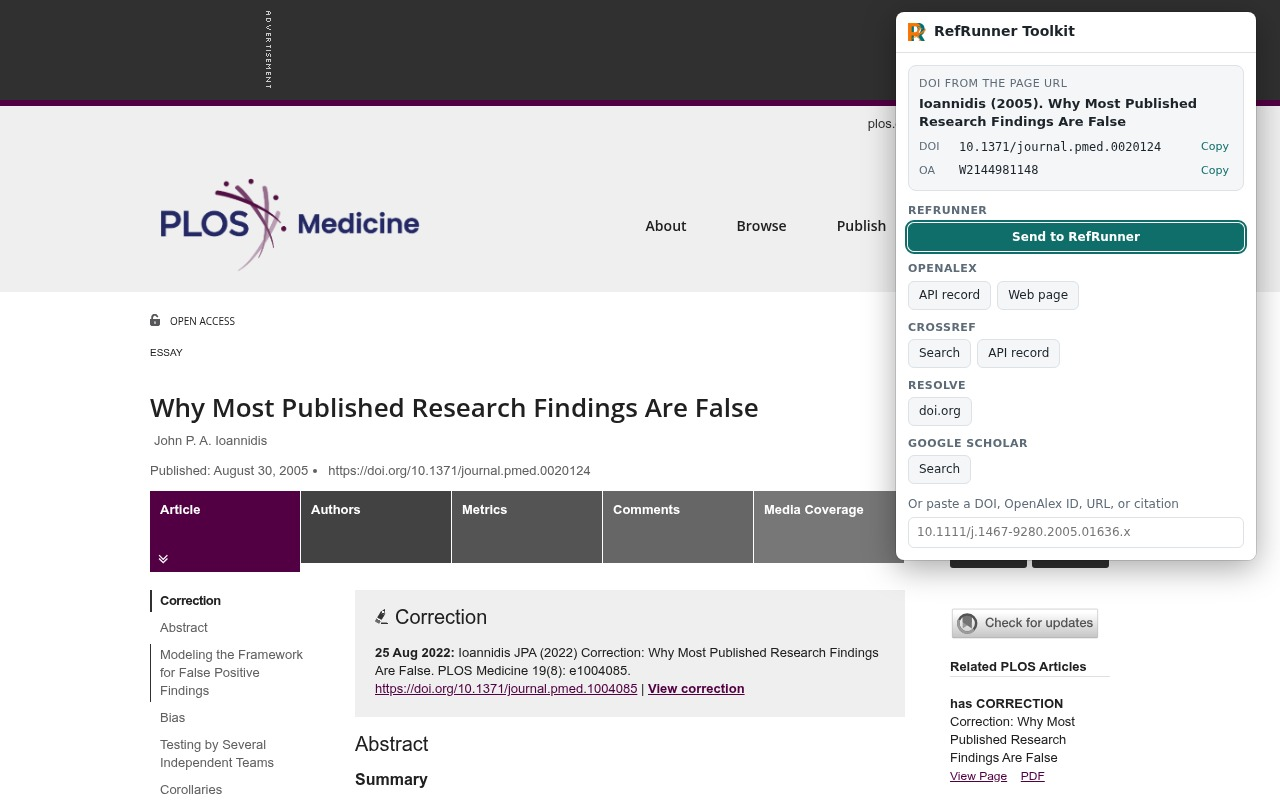
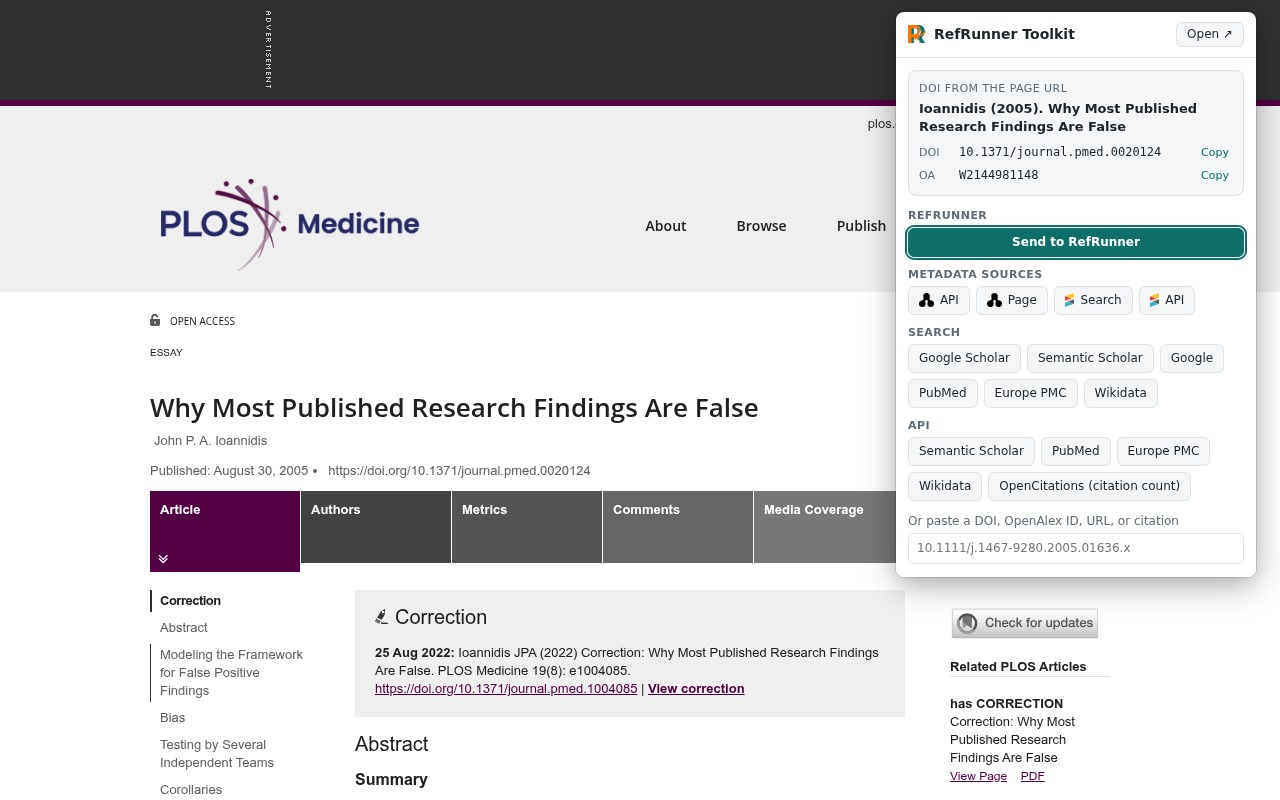
Store kit: screenshots and listing for the new popup layout
Claude-Session: https://claude.ai/code/session_0155qoeaNSUzENmLbfm4XGmY

Changed region(s): [[0.6875, 0.0312, 1.0, 0.75]]

diff --git a/store/LISTING.md b/store/LISTING.md
@@ -24,14 +24,15 @@ CHECK REFERENCES
 • Select one citation or a whole reference list, then press Alt+Shift+C (or click the toolbar button and press Enter). RefRunner checks every entry against the scholarly record, flags what's wrong or can't be found, and formats the corrected list.
 • Right-click a selection → RefRunner Toolkit → Send to RefRunner does the same.
 • Line breaks are kept, so a pasted list stays one reference per line.
-• If RefRunner is already open in a tab, the references go there instead of a new tab.
+• If RefRunner is already open in a tab, the references are added to its list; otherwise a new tab opens.
 
 JUMP FROM ANY ARTICLE
 • Finds the DOI from the page address or the publisher's metadata tags (works on most journal sites, including ones whose URLs don't show the DOI), and arXiv IDs.
-• Shows the work as "Author (year). Title", with its DOI and OpenAlex ID ready to copy.
-• One click to the OpenAlex record and page, the Crossref or DataCite record (whichever registered the DOI, so arXiv preprints and datasets go to DataCite), doi.org, Google Scholar, and RefRunner.
+• Shows the work as "Author (year). Title", with its DOI and OpenAlex ID ready to copy and an Open button for doi.org.
+• Metadata sources: the OpenAlex record and page, and the Crossref or DataCite record (whichever registered the DOI, so arXiv preprints and datasets go to DataCite).
+• Search the DOI or citation in Google Scholar, Semantic Scholar, Google, PubMed, Europe PMC, Wikidata, JSTOR, ERIC, the Library of Congress, Open Library, Google Books, and ResearchGate, with the matching API records one click away.
 • Alt+Shift+O opens the OpenAlex API record for the page you're on.
-• Paste a DOI, OpenAlex ID, URL, or citation into the popup to look it up.
+• Paste a DOI, OpenAlex ID, URL, or citation into the popup to look it up, or press Enter to send it to RefRunner.
 
 PRIVATE BY DESIGN
 • Reads a page only when you click the button, use the right-click menu, or press a shortcut.
@@ -42,8 +43,8 @@ Shortcuts can be changed at chrome://extensions/shortcuts (there's a link at the
 ```
 
 **Screenshots** (1280×800):
-1. `screenshot-1-article.jpg`: an article page; DOI from the URL, author (year) and title, every destination.
-2. `screenshot-2-references.jpg`: a selected reference list; "Check this text in RefRunner" ready for Enter.
+1. `screenshot-1-article.jpg`: an article page; DOI from the URL, author (year) and title, metadata sources, searches and APIs.
+2. `screenshot-2-references.jpg`: a selected reference list; "Add to RefRunner References" ready for Enter.
 3. `screenshot-3-arxiv.jpg`: an arXiv preprint; DataCite links instead of Crossref.
 
 **Small promo tile** (440×280): `promo-440x280.jpg`
@@ -56,7 +57,7 @@ Shortcuts can be changed at chrome://extensions/shortcuts (there's a link at the
 **Single purpose:**
 
 ```
-Help researchers check and look up scholarly references: send selected citations to RefRunner for verification, and open a work's records (OpenAlex, Crossref/DataCite, doi.org, Google Scholar) from its DOI or OpenAlex ID.
+Help researchers check and look up scholarly references: send selected citations to RefRunner for verification, and open a work's records and searches (OpenAlex, Crossref/DataCite, doi.org, Google Scholar and other scholarly indexes) from its DOI, OpenAlex ID, or citation.
 ```
 
 **Permission justifications:**
@@ -65,7 +66,7 @@ Help researchers check and look up scholarly references: send selected citations
 |---|---|
 | activeTab | Lets the extension read the current page only after the user clicks the toolbar button, uses the right-click menu, or presses a shortcut. Used to find the page's DOI and the user's selected text. No access to any page otherwise. |
 | scripting | Runs a small function in the active tab (only after the user acts, under activeTab) that reads the selected text and the page's citation meta tags (citation_doi, citation_title, citation_author, publication date). Nothing is changed on the page. |
-| contextMenus | Adds the "RefRunner Toolkit" right-click menu for selected text and links (OpenAlex, Crossref/DataCite, doi.org, Google Scholar, Send to RefRunner). |
+| contextMenus | Adds the "RefRunner Toolkit" right-click menu for selected text and links (OpenAlex, Crossref/DataCite, doi.org, Google Scholar, more searches, Send to RefRunner). |
 | storage | Remembers one developer setting (whether to send RefRunner links to a local development server). That option is only shown in unpacked development copies; store installs never use it. No user data is stored. |
 | Host permission: https://www.refrunner.com/* | When the user sends references to RefRunner and a RefRunner tab is already open, the extension finds that tab and hands the references to it instead of opening a new one. No other site is accessed with this permission. |
 
@@ -86,8 +87,8 @@ Then certify all three:
 - I do not use or transfer user data for purposes that are unrelated to my item's single purpose.
 - I do not use or transfer user data to determine creditworthiness or for lending purposes.
 
-**Privacy policy URL:** wherever `privacy-policy.md` ends up on refrunner.com, for example
-https://www.refrunner.com/privacy-policy#chrome-extension or a page of its own.
+**Privacy policy URL:** https://www.refrunner.com/privacy-policy (once it has the extension
+section from `privacy-policy.md`; reviewers check that the policy covers the extension).
 
 ## Distribution tab
 

diff --git a/store/privacy-policy.md b/store/privacy-policy.md
@@ -27,8 +27,10 @@ Only what is needed for the action you chose:
 - **RefRunner** (www.refrunner.com): the references or DOIs you send to it. Reference text travels
   in the part of the link after `#`, which stays in your browser and is not sent to RefRunner's
   servers. If a RefRunner tab is already open, the extension hands the references to that tab.
-- **Links you click** (OpenAlex, Crossref, DataCite, doi.org, Google Scholar) open in a new tab with
-  the DOI or text in the address, exactly as if you had typed it.
+- **Links you click** (OpenAlex, Crossref, DataCite, doi.org, Google Scholar, Semantic Scholar,
+  Google, PubMed, Europe PMC, Wikidata, OpenCitations, JSTOR, ERIC, the Library of Congress, Open
+  Library, Google Books, ResearchGate) open in a new tab with the DOI or text in the address,
+  exactly as if you had typed it there. The extension contacts none of them on its own.
 
 ## What it stores
 
